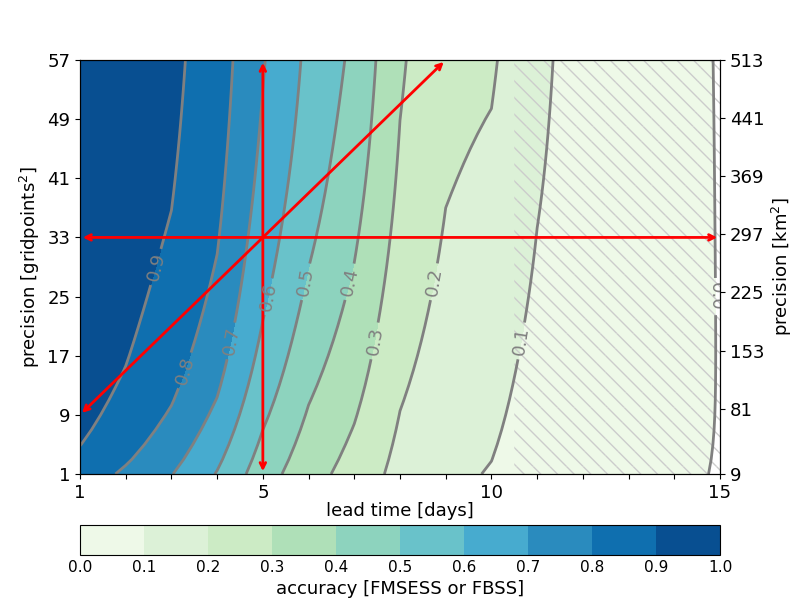
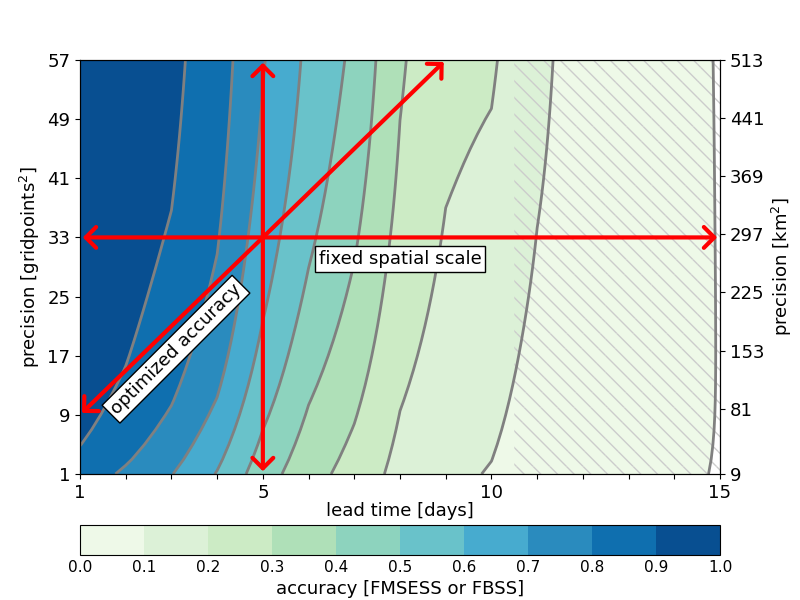
update

diff --git a/code/plot/plot-fig-06.py b/code/plot/plot-fig-06.py
@@ -22,7 +22,7 @@ def setup_subplot(flag, ax, ds, title_text, clevs_score, clevs_ltg, cmap_score, 
         ax.pcolor(time, box_size, ds['significance'], hatch='\\\\', cmap=mpl.colors.ListedColormap(['none']), edgecolor=[0.8,0.8,0.8], lw=0)
 
         dummy = ax.contour(time, box_size, ds['score'], levels=clevs_score, linewidths=2,linestyles='-',colors = [(0.5,0.5,0.5)])
-        ax.clabel(dummy, clevs_score, inline=True, fmt='%1.1f', fontsize=fontsize)
+        #ax.clabel(dummy, clevs_score, inline=True, fmt='%1.1f', fontsize=fontsize)
 
         #ax.contour(time, box_size, ds['score'], levels=[0.8], linewidths=3,linestyles='-',colors = [(1.0,0.0,0.0)])
         
@@ -72,16 +72,15 @@ fig,ax      = plt.subplots(nrows=1,ncols=1,figsize=(figsize[0],figsize[1]))
 
 p1 = setup_subplot(0, ax, ds1, 'a)', clevs_score, clevs_ltg, cmap_score, cmap_ltg, fontsize+2)
 
+ax.annotate("", xy=(1, 33), xytext=(15, 33),arrowprops=dict(arrowstyle="<->,head_length=0.75,head_width=0.75",linewidth=3, color='red'))
+ax.annotate("", xy=(5, 1), xytext=(5, 57),arrowprops=dict(arrowstyle="<->,head_length=0.75,head_width=0.75",linewidth=3, color='red'))
+ax.annotate("", xy=(1, 9), xytext=(9, 57),arrowprops=dict(arrowstyle="<->,head_length=0.75,head_width=0.75",linewidth=3, color='red'))
 
-#ax[1].plot([4.6,6.7], [1,33], 'bo',markersize=8)
-#ax[1].plot([4.6,6.7], [1,33], 'bo-',markersize=10)
+fig.text(0.5, 0.56, 'fixed spatial scale',horizontalalignment='center',bbox=dict(boxstyle='square,pad=.2',
+                                                                                facecolor='w', edgecolor='k'),color='k',fontsize=fontsize+2)
 
-ax.annotate("", xy=(1, 33), xytext=(15, 33),arrowprops=dict(arrowstyle="<->",linewidth=2, color='red'))
-ax.annotate("", xy=(5, 1), xytext=(5, 57),arrowprops=dict(arrowstyle="<->",linewidth=2, color='red'))
-#ax.annotate("", xy=(1.75, 1.0), xytext=(1.95, 2),arrowprops=dict(arrowstyle="->",linewidth=3, color='red'))
-#ax.annotate("", xy=(4.35, 56), xytext=(4.35, 57),arrowprops=dict(arrowstyle="<-",linewidth=3, color='red'))
-
-ax.annotate("", xy=(1, 9), xytext=(9, 57),arrowprops=dict(arrowstyle="<->",linewidth=2, color='red'))
+fig.text(0.22, 0.31, 'optimized accuracy',rotation=45,horizontalalignment='center',bbox=dict(boxstyle='square,pad=.2',
+	                                                                        facecolor='w', edgecolor='k'),color='k',fontsize=fontsize+2)
 
 fig.subplots_adjust(right=0.9, left=0.1,top=0.9,bottom=0.21)
 
